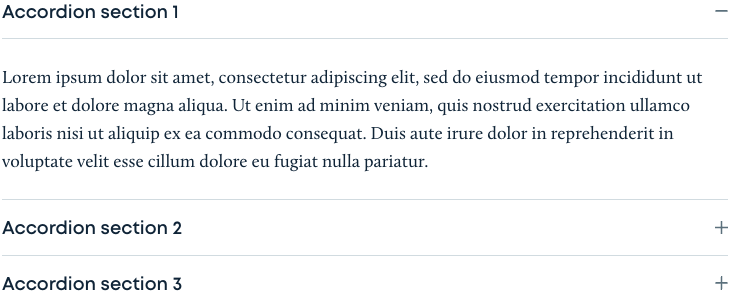
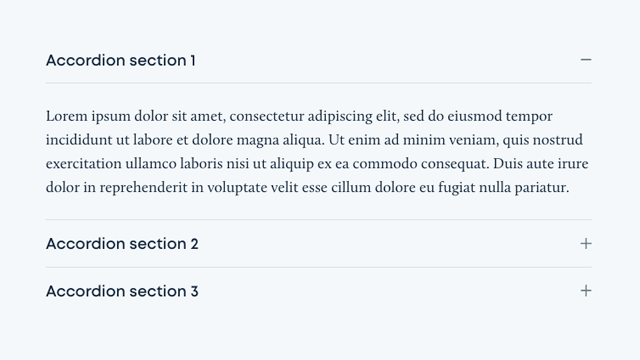
docs: Updating component card images

diff --git a/docs/src/components/index.md b/docs/src/components/index.md
@@ -22,7 +22,7 @@ Each page will provide live examples with code snippets for how to implement com
 {% for item in nav %}
 {{ include("tcds:card", {
   image: {
-    src: item.data.image,
+    src: item.data.image ?: "",
     alt: "",
   },
   title: item.title,

diff --git a/docs/src/components/call-to-action/index.md b/docs/src/components/call-to-action/index.md
@@ -1,7 +1,6 @@
 ---
 title: Call to Action
 description:
-image: /dist/images/component-illustration-call-to-action.png
 eleventyNavigation:
   key: Call to Action
   parent: Components
